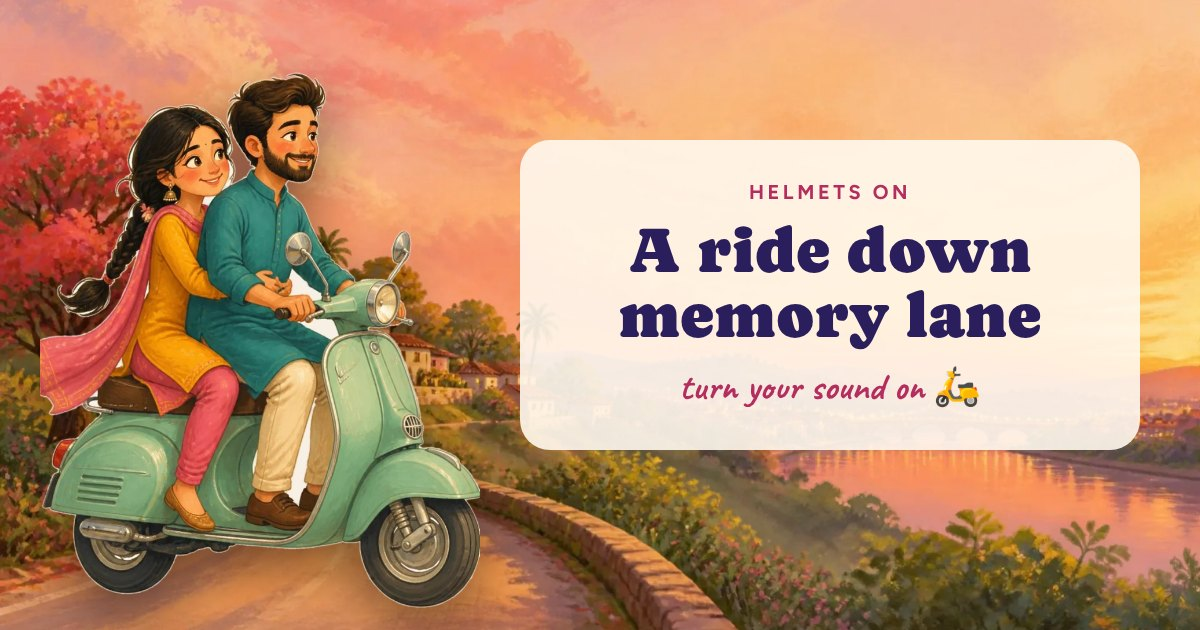
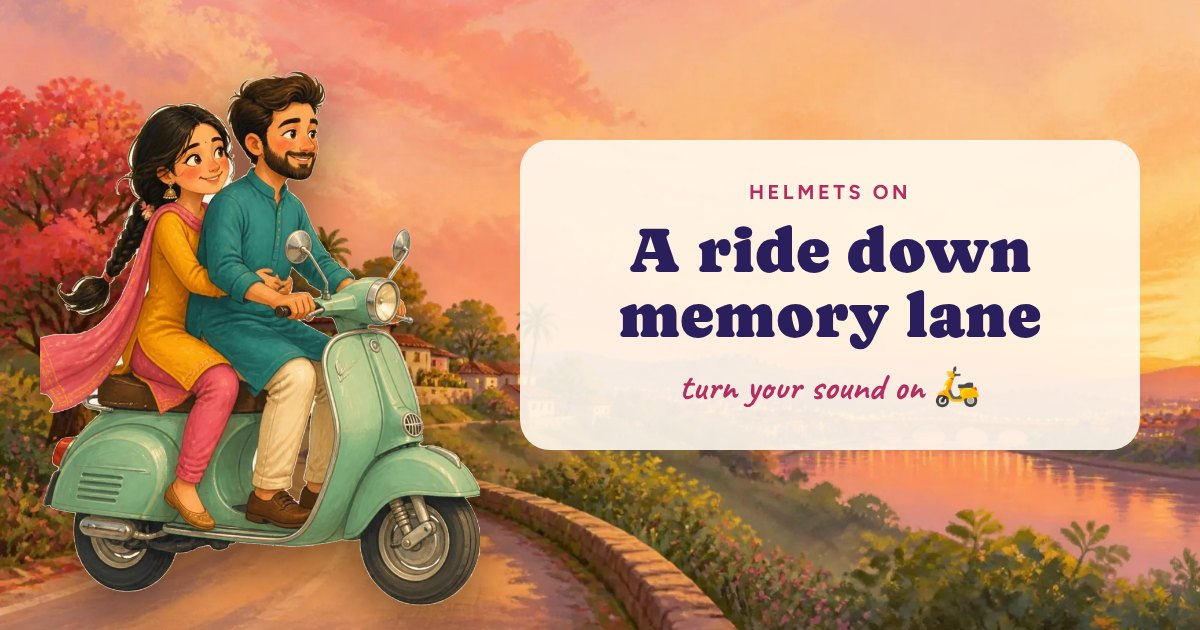
Memory Lane: helmets now painted on (Canva repaint revealed head by head)
Claude-Session: https://claude.ai/code/session_01421VuoqhFcSd1MVsboy9pA

Changed region(s): [[0.0308, 0.1206, 0.4008, 0.9651], [0.0925, 0.9349, 0.1233, 0.9651]]

diff --git a/anniversary/index.html b/anniversary/index.html
@@ -95,7 +95,7 @@ canvas#fx{position:fixed;inset:0;width:100%;height:100%;pointer-events:none;z-in
 .drop{filter:drop-shadow(0 14px 18px rgba(40,10,30,.35))}
 
 /* 1. helmets */
-.stand{position:relative;width:min(70vw,40dvh*.693,340px);aspect-ratio:720/1039}
+.stand{position:relative;width:min(70vw,40dvh*.693,340px);aspect-ratio:720/1042}
 .stand>img{width:100%;height:100%;display:block}
 .helmet{position:absolute;width:26%;border:0;padding:0;background:none;cursor:pointer;appearance:none;transition:left .9s cubic-bezier(.5,-.3,.4,1.3),top .9s cubic-bezier(.5,-.3,.4,1.3),width .9s,transform .9s}
 .helmet img{width:100%;height:auto;display:block;pointer-events:none;transition:opacity .25s .75s}
@@ -107,8 +107,14 @@ canvas#fx{position:fixed;inset:0;width:100%;height:100%;pointer-events:none;z-in
 .helmet.on{cursor:default}
 #hPink{left:-16%;top:-10%;width:25%;transform:rotate(-14deg)}
 #hYellow{left:86%;top:-14%;width:27.6%;transform:rotate(12deg)}
-#hPink.on{left:17.6%;top:5.4%;width:25%;transform:rotate(-9deg)}
-#hYellow.on{left:33.2%;top:-1.2%;width:27.6%;transform:rotate(7deg)}
+#hPink.on{left:15.5%;top:7.6%;width:18.5%;transform:rotate(-6deg)}
+#hYellow.on{left:41%;top:-.6%;width:18.5%;transform:rotate(4deg)}
+.helmet.on{opacity:0;transition:left .9s cubic-bezier(.5,-.3,.4,1.3),top .9s cubic-bezier(.5,-.3,.4,1.3),width .9s,transform .9s,opacity .3s .8s}
+/* the same painting with the helmets really worn, revealed one head at a time as each helmet lands */
+.hl{position:absolute;left:0;top:0;width:100%;height:auto;opacity:0;transition:opacity .45s .75s;pointer-events:none}
+.hl.show{opacity:1}
+.hlp{-webkit-mask-image:radial-gradient(16% 11.5% at 25.2% 16.4%,#000 66%,transparent 100%);mask-image:radial-gradient(16% 11.5% at 25.2% 16.4%,#000 66%,transparent 100%)}
+.hly{-webkit-mask-image:radial-gradient(17% 12.5% at 49% 9.4%,#000 66%,transparent 100%);mask-image:radial-gradient(17% 12.5% at 49% 9.4%,#000 66%,transparent 100%)}
 .helmet:not(.on){animation:bob 2.6s ease-in-out infinite}
 
 /* 2. kick-start */
@@ -307,9 +313,11 @@ canvas#fx{position:fixed;inset:0;width:100%;height:100%;pointer-events:none;z-in
   <section class="scene two" data-scene="open">
     <div class="art">
       <div class="stand">
-        <img src="img/couple.webp" alt="A couple holding hands beside a mint-green vintage scooter" width="720" height="1039">
-        <button class="helmet" id="hPink" type="button" aria-label="Put the pink helmet on her"><img src="img/helmet-pink.webp" alt="" width="300" height="344"><img class="worn" src="img/helmet-pink-on.webp" alt="" width="300" height="344"><span data-hn="0"></span></button>
-        <button class="helmet" id="hYellow" type="button" aria-label="Put the yellow helmet on him"><img src="img/helmet-yellow.webp" alt="" width="300" height="344"><img class="worn" src="img/helmet-yellow-on.webp" alt="" width="300" height="344"><span data-hn="1"></span></button>
+        <img src="img/couple.webp" alt="A couple holding hands beside a mint-green vintage scooter" width="720" height="1042">
+        <img class="hl hlp" id="hlPink" src="img/couple-helmets.webp" alt="" width="720" height="1054">
+        <img class="hl hly" id="hlYellow" src="img/couple-helmets.webp" alt="" width="720" height="1054">
+        <button class="helmet" id="hPink" type="button" aria-label="Put the pink helmet on her"><img src="img/helmet-pink.webp" alt="" width="300" height="344"><span data-hn="0"></span></button>
+        <button class="helmet" id="hYellow" type="button" aria-label="Put the yellow helmet on him"><img src="img/helmet-yellow.webp" alt="" width="300" height="344"><span data-hn="1"></span></button>
       </div>
     </div>
     <div class="words">
@@ -737,7 +745,7 @@ $("#muteBtn").addEventListener("click", e => {
 let helmetsOn = 0;
 $$(".helmet").forEach(h => h.addEventListener("click", () => {
   if (h.classList.contains("on")) return; ensureAudio(); unlockSong();
-  h.classList.add("on"); helmetsOn++;
+  h.classList.add("on"); helmetsOn++; $(h.id === "hPink" ? "#hlPink" : "#hlYellow").classList.add("show");
   if (ctx) setTimeout(() => { noise(.08, 700, .2, 1.5); ding(880 + helmetsOn * 220, 0, .08); }, 850);
   $("#helmetCount").textContent = helmetsOn === 2 ? "Helmets on. Safety first, romance second." : "1 of 2 on";
   if (helmetsOn === 2){ setTimeout(() => sparkleAt(h), 900); showNext($("#openBtn")); }

diff --git a/CLAUDE.md b/CLAUDE.md
@@ -13,7 +13,7 @@ Brand Instagram: @littlegasp.co. Owner: Aniket Nandkumar Gurav, Mumbai.
 - `diwali/index.html` – "Diwali Night" (₹149; art from Canva asset kit DAHXZ0ow0uw, pages 5–8; add-on art `img/mithai.webp` from asset kit 2, Canva DAHXcxMn5_E): open (diya) → rangoli (trace the dotted circle; the colour copy is revealed by a conic mask following the finger; "Draw it for me" fallback) → sky (tap to launch fireworks; each burst writes one reason in light; 3 generic bursts if no reasons) → lanterns (up to 5, tap to release, each leaves a photo polaroid) → sparkle (draw with a sparkler; "Save" shares/downloads a 1080×1350 PNG) → letter → ask → gift (only if `extra.gift`: scratch the gold foil on a mithai box to read the real gift) → end (continuous fireworks + "send a wish back": a lantern carries their text to the buyer's email via `action:"reply"`, kind `wish`). `extra.relation` partner | family | sibling (Bhai Dooj) changes all wording (`WORDS`); demo `?rel=family|sibling`. Music is our own synthesised santoor/tabla/drone tune (`SONG.src` empty); a buyer's song replaces it.
 - `apology/index.html` – "Mend the Heart" apology (₹149; art from the same kit, pages 1–4; add-on art `img/jar.webp`, `puppy-choc/bouquet/roll.webp` from asset kit 2, Canva DAHXcxMn5_E): open (sorry puppy) → heart (one painted heart cut by code into 4–6 clip-path shards along jagged rays; drag or tap each home, each shows a sorry from `reasons`; gold kintsugi seams then draw along the same rays) → window (wipe the fog canvas off each photo) → jar (only if `extra.promises`: tap the jar or shake the phone (DeviceMotion, iOS permission asked on the tap that opens the scene); each paper star unfolds into a promise) → letter → meter (forgive-o-meter dial "Still furious 🔥" → "All good 💗"; rain, gloom and puppy follow it live; answer sent as reply kind `meter`, only if they moved it) → ask ("Still mad 😤" makes the puppy try chocolate → flowers → belly rubs, then it stops and waits; "I need a minute" stays, never pressure) → menu (make-up menu from `extra.menu` or our `MENU`; tick treats + "Anything else?"; "Place my order" sends reply kind `order`, stamps the menu) → end (rain stops, happy puppy, their order listed). Song: `audio/thoda-muskura-do.mp3` ("Thoda Muskura Do" by RahulSapkal, Pixabay, owner's pick 10 Oct 2026; starts on the heart scene); our synthesised music-box tune only if it won't load. Diwali stays on its synthesised tune (owner's choice). Editor uses `reasonsTitle`/`reasonsExamples`/`letterHint` for apology wording.
 - `love-letter/index.html` – "Sealed with Love" love letter (₹149; Canva mockup + kit DAHXpI9uS9s in the Tiny Surprises Canva account, pages 8–11 = cut-outs, phone bg, couple, wide laptop bg): open (dove postman flies in; tap it) → seal (press & hold the wax heart ~1.5 s till it glows and cracks; music starts here; then the envelope really opens: `.eflap` (envelope image clipped to the top V) swings up, `.ecard` slides out of `.epocket` and lifts free; the painted wax stays split on flap and pocket; `.seal`/`.ring` sit at z-index 6 above the flap) → unfold (drag the folded letter down, each crease opens one reason) → letter (a drawn SVG quill writes the letter live; tap to finish) → flowers (pressed flowers `flower-N.webp`; tap one, it flies into a polaroid that develops into a photo) → box (only if `extra.memories`, "date: text": dated tabs in the keepsake box, pull one up to read it) → sky (join 12 stars into a heart in the arched window; initials of to/from appear; "Draw it for me" after 9 s) → ps (only if `extra.ps`: drag the candle near the card; invisible ink shows where the paper is warm) → ask (pull the ribbon end to untie the bundle; the last letter shows the question, the dove perched on it, a rose and a wax seal; "Convince me" brings 3 dove notes then becomes "Okay, yes!") → reply (write back, hold thumb on the wax for a fingerprint heart seal, tap lipstick for kisses; sent as reply kind `letter`; laptops get "click and hold" wording; after sending it moves to the finale by itself) → end (painted couple, falling petals). Song: `audio/love-story-piano.mp3` ("Romantic Background Music (Valentine's Day Love Story Piano)" by MaksymMalko, Pixabay, owner's pick 11 Oct 2026); our synthesised D-major waltz only if it won't load; buyer's song replaces it. Laptop bg `img/bg-wide.webp` (Canva page 11; window on the left half).
-- `anniversary/index.html` – "Memory Lane" anniversary (₹149; Canva storyboard DAHXtkkfL6s, asset kit DAHXtijKBLo (16 pages) + wide bg DAHXtvAjBVY, Tiny Surprises Canva account; built 11 Oct 2026, reworked on owner feedback the same evening; unlisted until the owner approves): open (helmets on: one complete 3/4 pink helmet from kit page 6, mirrored + recoloured for his yellow one; `helmet-*-on.webp` have the face opening + chin cut out so faces show; worn positions tuned per head in CSS `#hPink.on/#hYellow.on`; name tags follow `theme` her/him, set from the editor's Wife/Husband pick via `genderFromWho`) → kick (swipe the kick lever down twice; music starts here) → map (paper map unfolds, dotted route, years from `number`) → fuel (only if reasons: hold the nozzle; one gauge bar per reason) → lane (drag the scooter up `img/road.webp`, path = `ROAD` in 900×1600 image space; EVERY PHOTO IS A MILESTONE: caption "year: text", photo shows in the note as a polaroid; up to 20 photos (editor `maxPhotos:20`, `captionMax:80`); no photos → old `extra.milestones` or `DEFAULT_STOPS`; "Drive for me" after 8 s; the post-box scene was dropped) → toll (barrier is 3 layers `bar-post/bar-arm/bar-hub.webp`, only the arm rotates about the hub; one promise per lift from `extra.promises` or `DEFAULT_PROMISES`; after the last one `rideAway()` sends the riding couple up the painted road, shrinking toward the vanishing point, per-layout path in vw/vh) → chai (only if letter: couple sitting on the parked scooter at the tapri; "Cheers" → full-screen overlay, two `chai-glass.webp` (one glass, mirrored) swing in and clink with a splash; then the chalkboard card writes the letter; on phones the art hides once the board shows) → lock (only if question: Lock it / tap lock → lock drops onto the rail, key slides into the keyhole and turns (click), comes out; "Throw the key away" → key arcs into the river, splash + ripples; then "Ride into forever" button, never automatic) → end. Music: our synthesised ukulele-style tune (`SONG.src` empty); buyer's song replaces it. Backend v10 (`/home/claude/out/Code-v10.gs`): `anniversary` price + `PHOTO_LIMITS` (20 photos, 80-char captions).
+- `anniversary/index.html` – "Memory Lane" anniversary (₹149; Canva storyboard DAHXtkkfL6s, asset kit DAHXtijKBLo (16 pages) + wide bg DAHXtvAjBVY, Tiny Surprises Canva account; built 11 Oct 2026, reworked on owner feedback the same evening; unlisted until the owner approves): open (helmets on: tap a helmet, it flies to the head and fades while `couple-helmets.webp` (Canva repaint of the same couple wearing helmets, media MAHXtz1xcy4, aligned to `couple.webp`) is revealed under a soft radial mask around that head only (`.hlp`/`.hly`); name tags follow `theme` her/him, set from the editor's Wife/Husband pick via `genderFromWho`) → kick (swipe the kick lever down twice; music starts here) → map (paper map unfolds, dotted route, years from `number`) → fuel (only if reasons: hold the nozzle; one gauge bar per reason) → lane (drag the scooter up `img/road.webp`, path = `ROAD` in 900×1600 image space; EVERY PHOTO IS A MILESTONE: caption "year: text", photo shows in the note as a polaroid; up to 20 photos (editor `maxPhotos:20`, `captionMax:80`); no photos → old `extra.milestones` or `DEFAULT_STOPS`; "Drive for me" after 8 s; the post-box scene was dropped) → toll (barrier is 3 layers `bar-post/bar-arm/bar-hub.webp`, only the arm rotates about the hub; one promise per lift from `extra.promises` or `DEFAULT_PROMISES`; after the last one `rideAway()` sends the riding couple up the painted road, shrinking toward the vanishing point, per-layout path in vw/vh) → chai (only if letter: couple sitting on the parked scooter at the tapri; "Cheers" → full-screen overlay, two `chai-glass.webp` (one glass, mirrored) swing in and clink with a splash; then the chalkboard card writes the letter; on phones the art hides once the board shows) → lock (only if question: Lock it / tap lock → lock drops onto the rail, key slides into the keyhole and turns (click), comes out; "Throw the key away" → key arcs into the river, splash + ripples; then "Ride into forever" button, never automatic) → end. Music: our synthesised ukulele-style tune (`SONG.src` empty); buyer's song replaces it. Backend v10 (`/home/claude/out/Code-v10.gs`): `anniversary` price + `PHOTO_LIMITS` (20 photos, 80-char captions).
 - `style.css` – shared glass theme. `site.js` – shared header, phone menu, footer (edit nav/footer links only here).
 - `terms.html`, `refund.html`, `privacy.html`, `contact.html` – policies.
 - `about.html` – indexable About page (11 Oct 2026, for Google/AI answers about the brand): clear "Little Gasp (littlegasp.com) is…" opening line, every design listed, AboutPage + Organization + FAQPage JSON-LD. Homepage also carries Organization/WebSite/Product + FAQPage JSON-LD and the Pinterest `p:domain_verify` meta tag (website claim, 11 Oct 2026; never remove it); keep design names, prices and `offerCount` there in step with `DESIGNS`.
